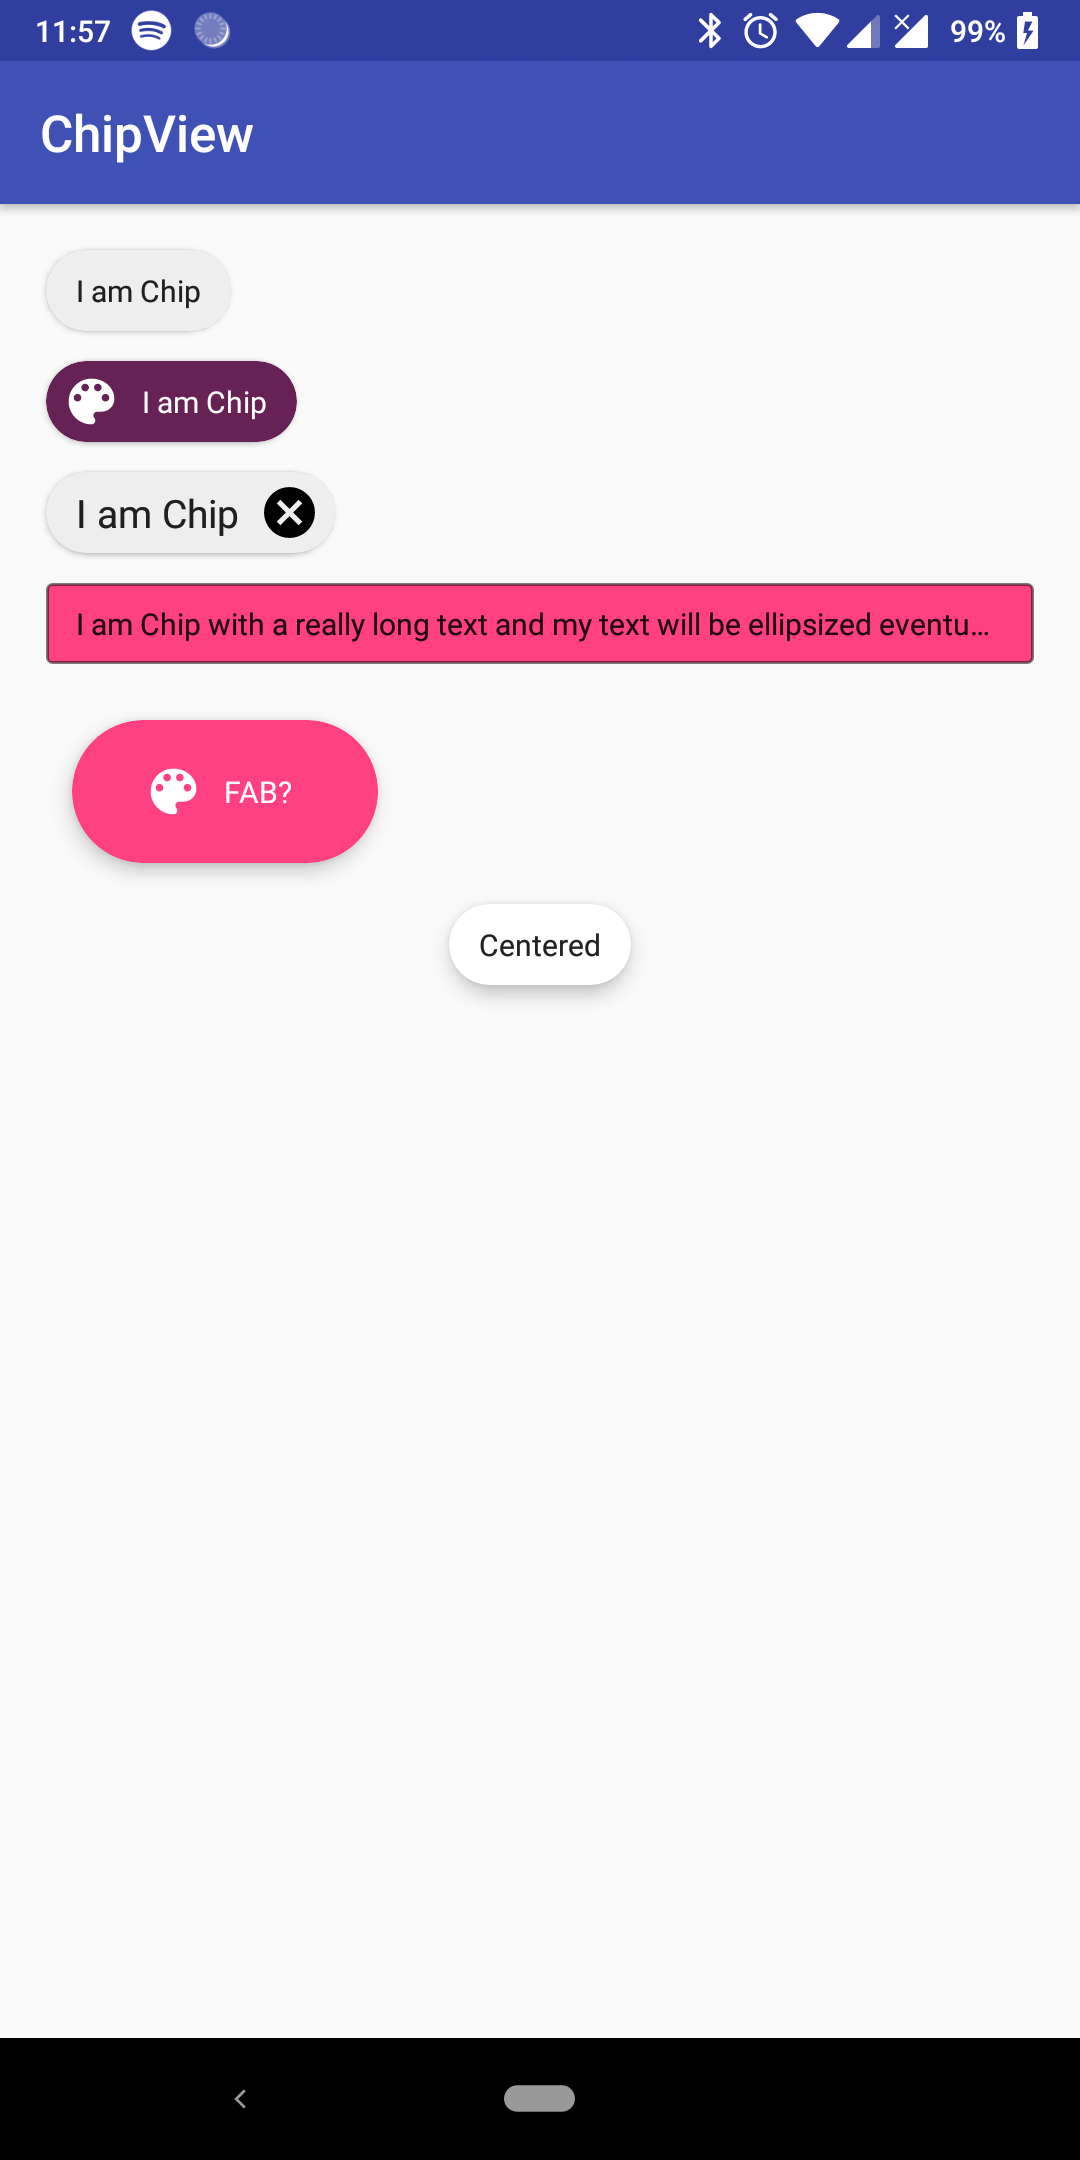
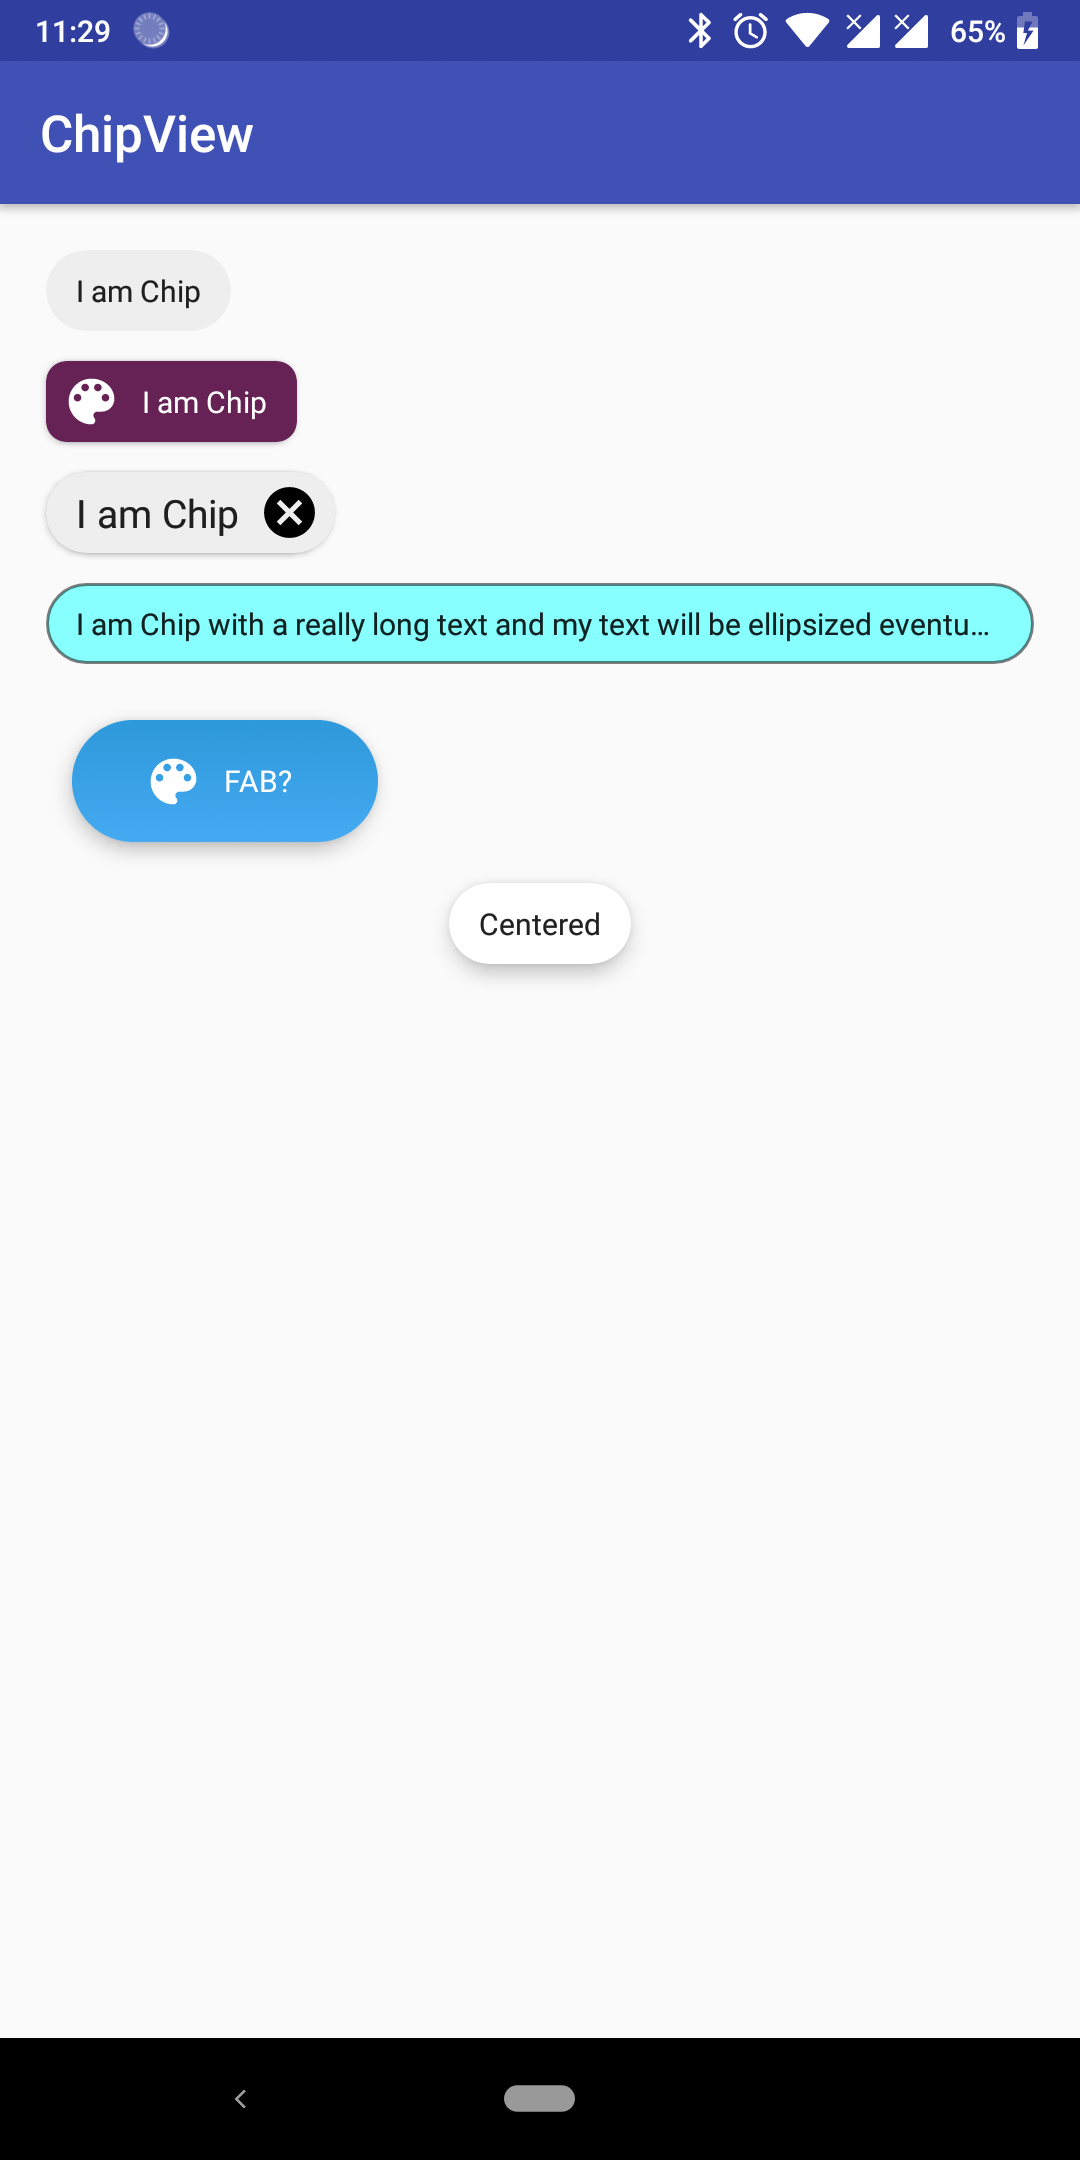
Add support for custom background drawables. Fix some issues

diff --git a/library/src/main/kotlin/com/jahirfiquitiva/chip/ChipView.kt b/library/src/main/kotlin/com/jahirfiquitiva/chip/ChipView.kt
@@ -50,15 +50,16 @@ open class ChipView @JvmOverloads constructor(
     @StyleRes defStyle: Int = 0
                                              ) : CardView(context, attrs, defStyle) {
     
+    private var contentLayout: View? = null
+    private var textView: TextView? = null
+    private var iconView: ImageView? = null
+    private var actionIconView: ImageView? = null
+    
     private var internalCustomRadius = -1F
         set(value) {
             field = value
             requestLayout()
         }
-    
-    private var textView: TextView? = null
-    private var iconView: ImageView? = null
-    private var actionIconView: ImageView? = null
     
     var text: String
         get() = textView?.text.toString()
@@ -104,11 +105,12 @@ open class ChipView @JvmOverloads constructor(
     }
     
     private fun initChip(context: Context, attrs: AttributeSet?) {
-        View.inflate(context, R.layout.chip, this)
+        View.inflate(context, R.layout.chip, parent as? ViewGroup ?: this)
         
-        this.textView = findViewById(R.id.chip_text)
-        this.iconView = findViewById(R.id.chip_icon)
-        this.actionIconView = findViewById(R.id.chip_action_icon)
+        contentLayout = findViewById(R.id.chip_content)
+        textView = findViewById(R.id.chip_text)
+        iconView = findViewById(R.id.chip_icon)
+        actionIconView = findViewById(R.id.chip_action_icon)
         
         val styles = context.obtainStyledAttributes(attrs, R.styleable.ChipView, 0, 0)
         try {
@@ -151,16 +153,19 @@ open class ChipView @JvmOverloads constructor(
     @CallSuper
     override fun onMeasure(widthMeasureSpec: Int, heightMeasureSpec: Int) {
         super.onMeasure(widthMeasureSpec, heightMeasureSpec)
-        val canModifyWidth =
+        val canModifyDimensions =
             layoutParams.width != ViewGroup.LayoutParams.MATCH_PARENT &&
                 layoutParams.height != ViewGroup.LayoutParams.MATCH_PARENT
-        if (canModifyWidth) {
+        if (canModifyDimensions) {
             val minHeight = if (minimumHeight <= 0) 32.dpToPx else minimumHeight
             val properHeight = if (measuredHeight < minHeight) minHeight else measuredHeight
             val minWidth =
                 if (minimumWidth <= 0) (measuredHeight * 1.25F).roundToInt() else minimumWidth
             val properWidth = if (measuredWidth < minWidth) minWidth else measuredWidth
             setMeasuredDimension(properWidth, properHeight)
+            if (radius < 0F) radius = (properHeight / 2.0F)
+            contentLayout?.minimumWidth = properWidth
+            contentLayout?.minimumHeight = properHeight
         }
     }
     
@@ -174,11 +179,10 @@ open class ChipView @JvmOverloads constructor(
     @CallSuper
     override fun setRadius(radius: Float) {
         internalCustomRadius = radius
+        if (strokeWidth > 0) internalSetBackground()
     }
     
-    override fun getRadius(): Float {
-        return if (internalCustomRadius < 0F) super.getRadius() else internalCustomRadius
-    }
+    override fun getRadius(): Float = internalCustomRadius
     
     @CallSuper
     open fun setText(@StringRes res: Int) {
@@ -280,6 +284,16 @@ open class ChipView @JvmOverloads constructor(
         bgColor = color
     }
     
+    @CallSuper
+    override fun setBackground(background: Drawable?) {
+        contentLayout?.background = background
+    }
+    
+    @CallSuper
+    override fun setBackgroundResource(resId: Int) {
+        contentLayout?.setBackgroundResource(resId)
+    }
+    
     private fun internalSetBackground() {
         val fgResId: Int = try {
             val attrs = intArrayOf(R.attr.selectableItemBackground)
@@ -316,10 +330,10 @@ open class ChipView @JvmOverloads constructor(
         }
         
         if (strokeWidth > 0) {
-            setCardBackgroundColor(Color.parseColor("#00000000"))
-            background = bgDrawable
+            super.setCardBackgroundColor(Color.parseColor("#00000000"))
+            super.setBackground(bgDrawable)
         } else {
-            setCardBackgroundColor(bgColor)
+            super.setCardBackgroundColor(bgColor)
         }
         foreground = fgDrawable
     }

diff --git a/app/src/main/kotlin/com/jahirfiquitiva/chipview/MainActivity.kt b/app/src/main/kotlin/com/jahirfiquitiva/chipview/MainActivity.kt
@@ -56,6 +56,7 @@ class MainActivity : AppCompatActivity() {
         strokeChip?.setOnClickListener { showToast("You pressed the stroked chip") }
         
         fabChip?.setOnClickListener { showToast("Am I even a FAB?") }
+        fabChip?.setBackgroundResource(R.drawable.gradient)
     }
     
     private fun showToast(text: String) {
